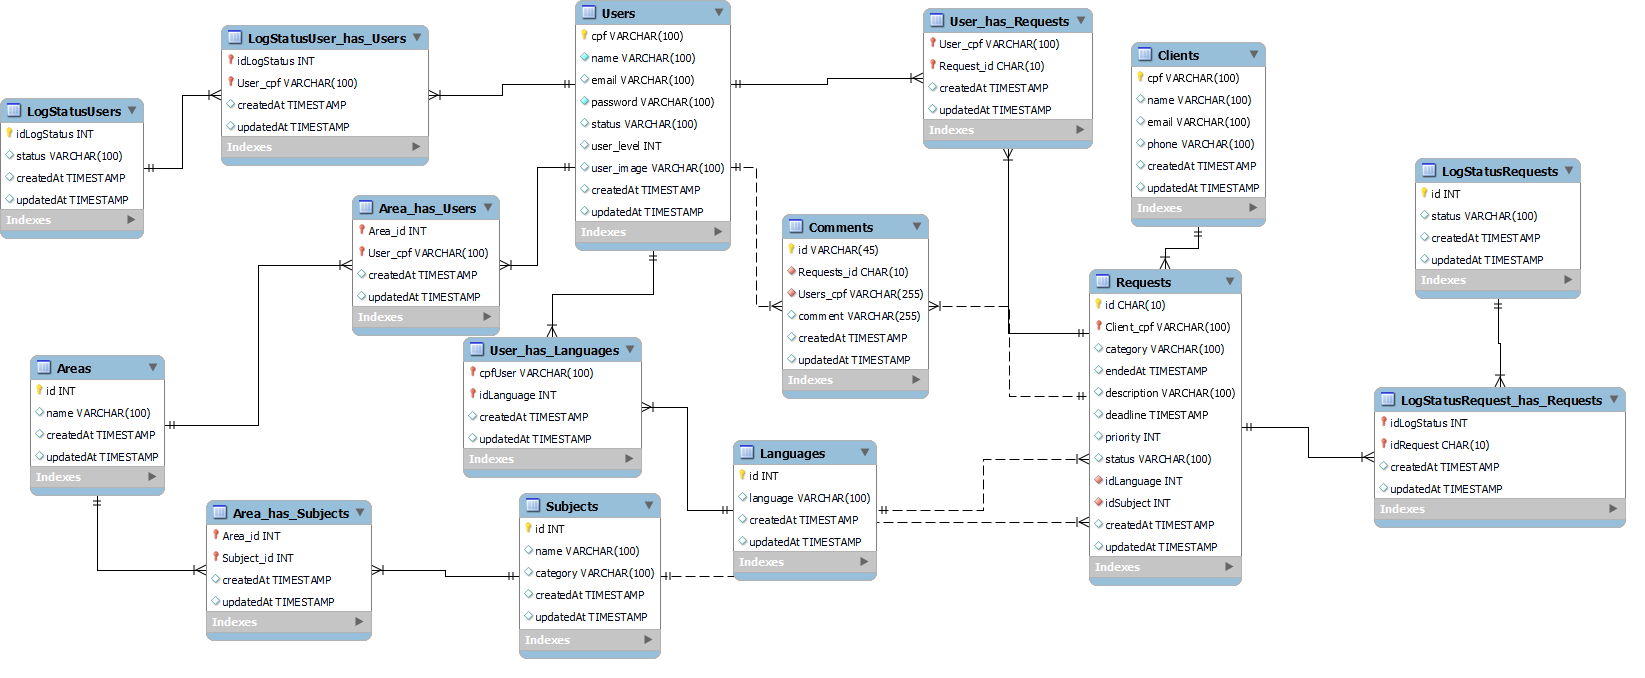
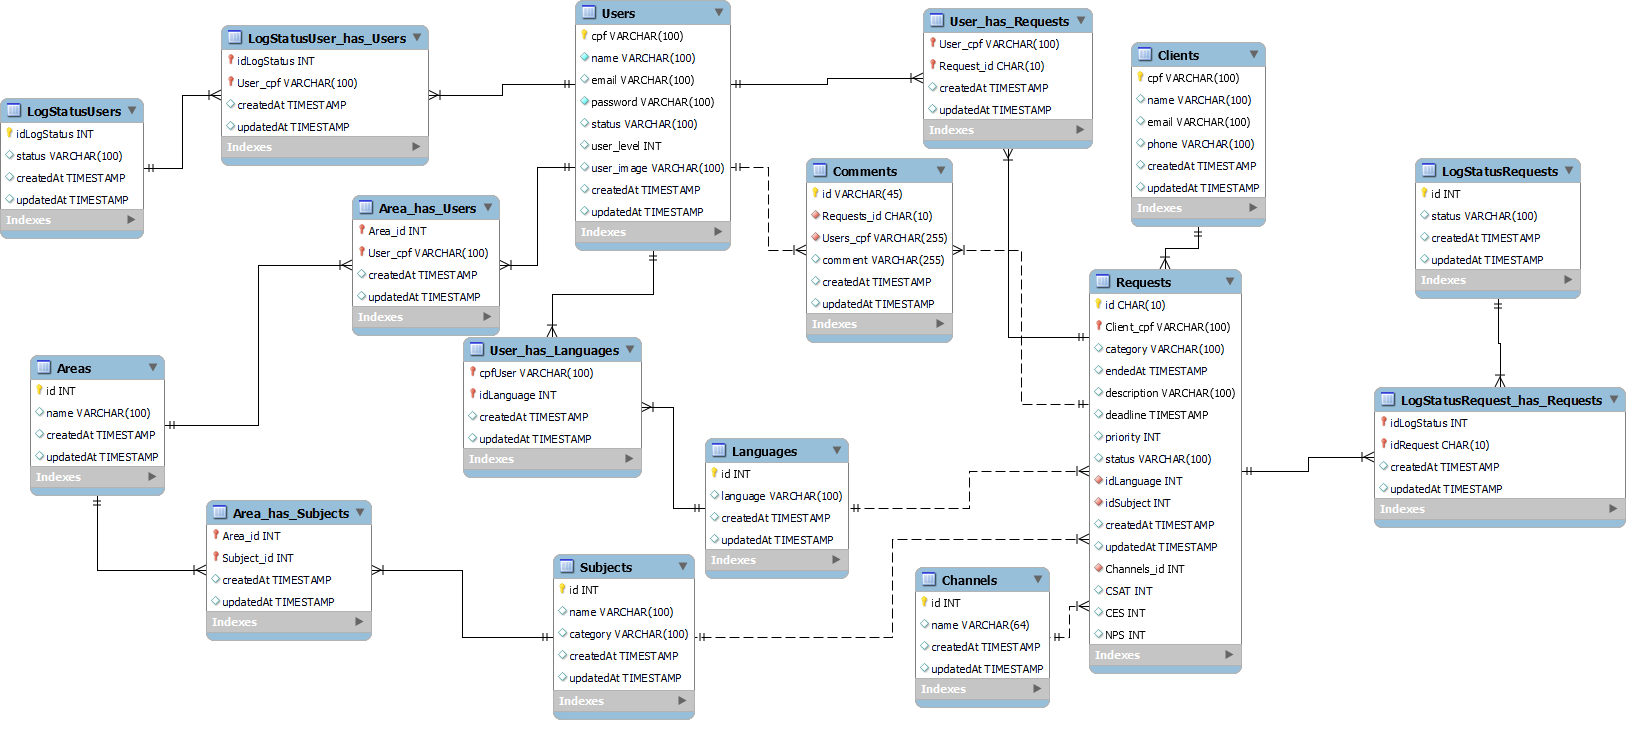
Services and database files update

diff --git a/src/services/clientService.js b/src/services/clientService.js
@@ -5,6 +5,7 @@ exports.create = async (req, res) => {
     //rules
     if (true) {
         client = await clientController.create(data, res);
+        client.dataValues.first_name = client.name.split(" ")[0];
         return res.status(201).json(client);
     } else {
         return res.status(401).json({ 'message': 'Unauthorized' });
@@ -12,7 +13,9 @@ exports.create = async (req, res) => {
 }
 
 exports.select = async (req, res) => {
-    data = req.body;
+    const { cpf, name, email, phone } = req.body;
+    //rules
+
     if (req.query.filter == undefined) {
         //We should create the 'filter' param to check if have filters and later get
         //all the params to filter the response
@@ -25,11 +28,34 @@ exports.select = async (req, res) => {
             return res.status(401).json({ 'message': 'Unauthorized' });
         }
     } else {
-        const filters = null; //We can build a filter object here
-        //rules
+        const filter = {
+            cpf: cpf ? cpf : null,
+            name: name ? name : null,
+            email: email ? email : null,
+            phone: phone ? phone : null
+        };
+
+        Object.keys(filter).forEach(key => {
+            if (filter[key] == null) {
+                delete filter[key];
+            }
+        });
         if (true) {
-            clients = await clientController.select(filters, res);
-            return res.status(200).json(clients);
+            clients = await clientController.select(filter, res);
+
+            switch (clients.length) {
+                case 0:
+                    return res.status(404).json({ 'message': 'No one register found' })
+                    break;
+                case 1:
+                    clients[0].dataValues.first_name = clients[0].name.split(" ")[0];
+                    return res.status(200).json(clients[0]);
+                default:
+                    return res.status(200).json(clients);
+                    break;
+            }
+
+           
         } else {
             return res.status(401).json({ 'message': 'Unauthorized' });
         }

diff --git a/src/services/requestService.js b/src/services/requestService.js
@@ -12,7 +12,9 @@ exports.create = async (req, res) => {
 }
 
 exports.select = async (req, res) => {
-    data = req.body;
+    const { id, client_cpf, category, endedAt, description,
+        deadline, priority, status, idlanguage, idsubject,
+        createdAt, updatedAt, channels_id, csat, ces, nps } = req.body;
     if (req.query.filter == undefined) {
         //We should create the 'filter' param to check if have filters and later get
         //all the params to filter the response
@@ -25,10 +27,32 @@ exports.select = async (req, res) => {
             return res.status(401).json({ 'message': 'Unauthorized' });
         }
     } else {
-        const filters = null; //We can build a filter object here
+        const filter = {
+            id: id ? id : null,
+            client_cpf: client_cpf ? client_cpf : null,
+            category: category ? category : null,
+            endedAt: endedAt ? endedAt : null,
+            description: description ? description : null,
+            deadline: deadline ? deadline : null,
+            priority: priority ? priority : null,
+            status: status ? status : null,
+            idlanguage: idlanguage ? idlanguage : null,
+            idsubject: idsubject ? idsubject : null,
+            createdAt: createdAt ? createdAt : null,
+            updatedAt: updatedAt ? updatedAt : null,
+            channels_id: channels_id ? channels_id : null,
+            csat: csat ? csat : null,
+            ces: ces ? ces : null,
+            nps: nps ? nps : null,
+        };
+        Object.keys(filter).forEach(key => {
+            if (filter[key] == null) {
+                delete filter[key];
+            }
+        });
         //rules
         if (true) {
-            requests = await requestController.select(filters, res);
+            requests = await requestController.select(filter, res);
             return res.status(200).json(requests);
         } else {
             return res.status(401).json({ 'message': 'Unauthorized' });

diff --git a/app.js b/app.js
@@ -1,6 +1,8 @@
 const express = require('express');
 var bodyParser = require('body-parser')
 const app = express();
+const fs = require('fs');
+
 
 require("dotenv").config();
 
@@ -10,6 +12,19 @@ const requestRoute = require("./src/routes/request");
 const clientRoute = require("./src/routes/client");
 const userRoute = require("./src/routes/user");
 const authRoute = require("./src/routes/auth");
+const areaRoute = require("./src/routes/area");
+const area_has_subjectRoute = require("./src/routes/area_has_subject");
+const area_has_userRoute = require("./src/routes/area_has_user");
+const commentRoute = require("./src/routes/comment");
+const languageRoute = require("./src/routes/language");
+const logstatusrequest_has_requestRoute = require("./src/routes/logstatusrequest_has_request");
+const logstatusrequestRoute = require("./src/routes/logstatusrequest");
+const logstatususer_has_userRoute = require("./src/routes/logstatususer_has_user");
+const logstatususerRoute = require("./src/routes/logstatususer");
+const subjectRoute = require("./src/routes/subject");
+const user_has_languageRoute = require("./src/routes/user_has_language");
+const user_has_requestRoute = require("./src/routes/user_has_request");
+const chatbotRoute = require("./src/routes/chatbot");
 
 
 app.use(bodyParser.urlencoded({ extended: false }))
@@ -23,9 +38,14 @@ app.use("/receive", receivemessage);
 app.use("/request", requestRoute);
 app.use("/client", clientRoute);
 app.use("/user", userRoute);
+app.use("/chatbot", chatbotRoute);
 app.get("/teste", async (req, res) => {
-    teste = req.body;
-    res.status(201).json({'message':teste});
+
+    fs.writeFile('helloworld.txt', req.body, function (err) {
+        if (err) return console.log(err);
+        console.log('Hello World > helloworld.txt');
+    });
+    res.status(201).json({ 'message': teste });
 });
 
 // app.post("/request", (req, res) => {

diff --git a/src/models/mArea_has_Subject.js b/src/models/mArea_has_Subject.js
@@ -5,7 +5,7 @@ const area = require('./mArea');
 const subject = require('./mSubject');
 
 const Area_has_Subject = database.define('Area_has_Subject', {
-    Area_id:{
+    Area_id: {
         type: Sequelize.INTEGER,
         allowNull: false,
         references: {
@@ -14,13 +14,11 @@ const Area_has_Subject = database.define('Area_has_Subject', {
         }
     },
     Subject_id: {
-        Area_id:{
-            type: Sequelize.INTEGER,
-            allowNull: false,
-            references: {
-                model: subject,
-                key: 'id',
-            }
+        type: Sequelize.INTEGER,
+        allowNull: false,
+        references: {
+            model: subject,
+            key: 'id',
         }
     }
 });

diff --git a/src/routes/client.js b/src/routes/client.js
@@ -3,6 +3,14 @@ const { route } = require("express/lib/application");
 
 let router = express.Router();
 
+const mArea_has_Subject = require("../models/mArea_has_Subject");
+const mArea = require("../models/mArea");
+const Comment = require("../models/mComment");
+const LogStatusRequest_has_Request = require("../models/mLogStatusRequest_has_Request");
+const LogStatusUser_has_User = require("../models/mLogStatusUser_has_User");
+const User_has_Language = require("../models/mUser_has_Language");
+const User_has_Request = require("../models/mUser_has_Request");
+
 const clientService = require("../services/clientService");
 
 router.post("/", clientService.create);

diff --git a/src/models/mRequest.js b/src/models/mRequest.js
@@ -3,6 +3,7 @@ const database = require("./db");
 const client = require('./mClient');
 const subject = require('./mSubject');
 const language = require('./mLanguage');
+const channel = require('./mChannel');
 
 const Request = database.define('Request', {
     id: {
@@ -54,7 +55,15 @@ const Request = database.define('Request', {
             key: 'id'
         }
 
+    },
+    Channels_id: {
+        type: Sequelize.INTEGER,
+        references: {
+            model: channel,
+            key: 'id'
+        }
+
     }
-}, {
-    deletedAt: true
-})
+},)
+
+module.exports = Request;

diff --git a/src/routes/receivemessage.js b/src/routes/receivemessage.js
@@ -5,7 +5,7 @@ let router = express.Router();
 const receivemessageServices = require("../services/receivemessageService");
 
 router.post("/sms", receivemessageServices.receiveMessageSMS); // SMS
-// router.post("/whatsapp", receivemessageServices.receiveMessageWhatsapp); //Whatsapp
+router.post("/whatsapp", receivemessageServices.receiveMessageWhatsapp); //Whatsapp
 // router.post("/email", receivemessageServices.receiveMessageEmail); //email
 // router.post("/messenger", receivemessageServices.receiveMessageMessenger); //Messenger
 

diff --git a/src/routes/logstatusrequest_has_request.js b/src/routes/logstatusrequest_has_request.js
@@ -1,0 +1,13 @@
+const express = require("express");
+const { route } = require("express/lib/application");
+
+let router = express.Router();
+
+const LogStatusRequest_has_RequestService = require("../services/LogStatusRequest_has_RequestService");
+
+router.post("/", LogStatusRequest_has_RequestService.create);
+router.get("/", LogStatusRequest_has_RequestService.select);
+router.put("/:id", LogStatusRequest_has_RequestService.update);
+//router.delete("/:id", LogStatusRequest_has_RequestService.delete)
+
+module.exports = router;

diff --git a/src/routes/logstatususer_has_user.js b/src/routes/logstatususer_has_user.js
@@ -1,0 +1,13 @@
+const express = require("express");
+const { route } = require("express/lib/application");
+
+let router = express.Router();
+
+const LogStatusUser_has_UserService = require("../services/LogStatusUser_has_UserService");
+
+router.post("/", LogStatusUser_has_UserService.create);
+router.get("/", LogStatusUser_has_UserService.select);
+router.put("/:id", LogStatusUser_has_UserService.update);
+//router.delete("/:id", LogStatusUser_has_UserService.delete)
+
+module.exports = router;

diff --git a/src/routes/user_has_language.js b/src/routes/user_has_language.js
@@ -1,0 +1,13 @@
+const express = require("express");
+const { route } = require("express/lib/application");
+
+let router = express.Router();
+
+const User_has_LanguageService = require("../services/User_has_LanguageService");
+
+router.post("/", User_has_LanguageService.create);
+router.get("/", User_has_LanguageService.select);
+router.put("/:id", User_has_LanguageService.update);
+//router.delete("/:id", User_has_LanguageService.delete)
+
+module.exports = router;

diff --git a/src/routes/area_has_subject.js b/src/routes/area_has_subject.js
@@ -1,0 +1,13 @@
+const express = require("express");
+const { route } = require("express/lib/application");
+
+let router = express.Router();
+
+const Area_has_SubjectService = require("../services/Area_has_SubjectService");
+
+router.post("/", Area_has_SubjectService.create);
+router.get("/", Area_has_SubjectService.select);
+router.put("/:id", Area_has_SubjectService.update);
+//router.delete("/:id", Area_has_SubjectService.delete)
+
+module.exports = router;

diff --git a/src/routes/logstatusrequest.js b/src/routes/logstatusrequest.js
@@ -1,0 +1,13 @@
+const express = require("express");
+const { route } = require("express/lib/application");
+
+let router = express.Router();
+
+const LogStatusRequestService = require("../services/LogStatusRequestService");
+
+router.post("/", LogStatusRequestService.create);
+router.get("/", LogStatusRequestService.select);
+router.put("/:id", LogStatusRequestService.update);
+//router.delete("/:id", LogStatusRequestService.delete)
+
+module.exports = router;
